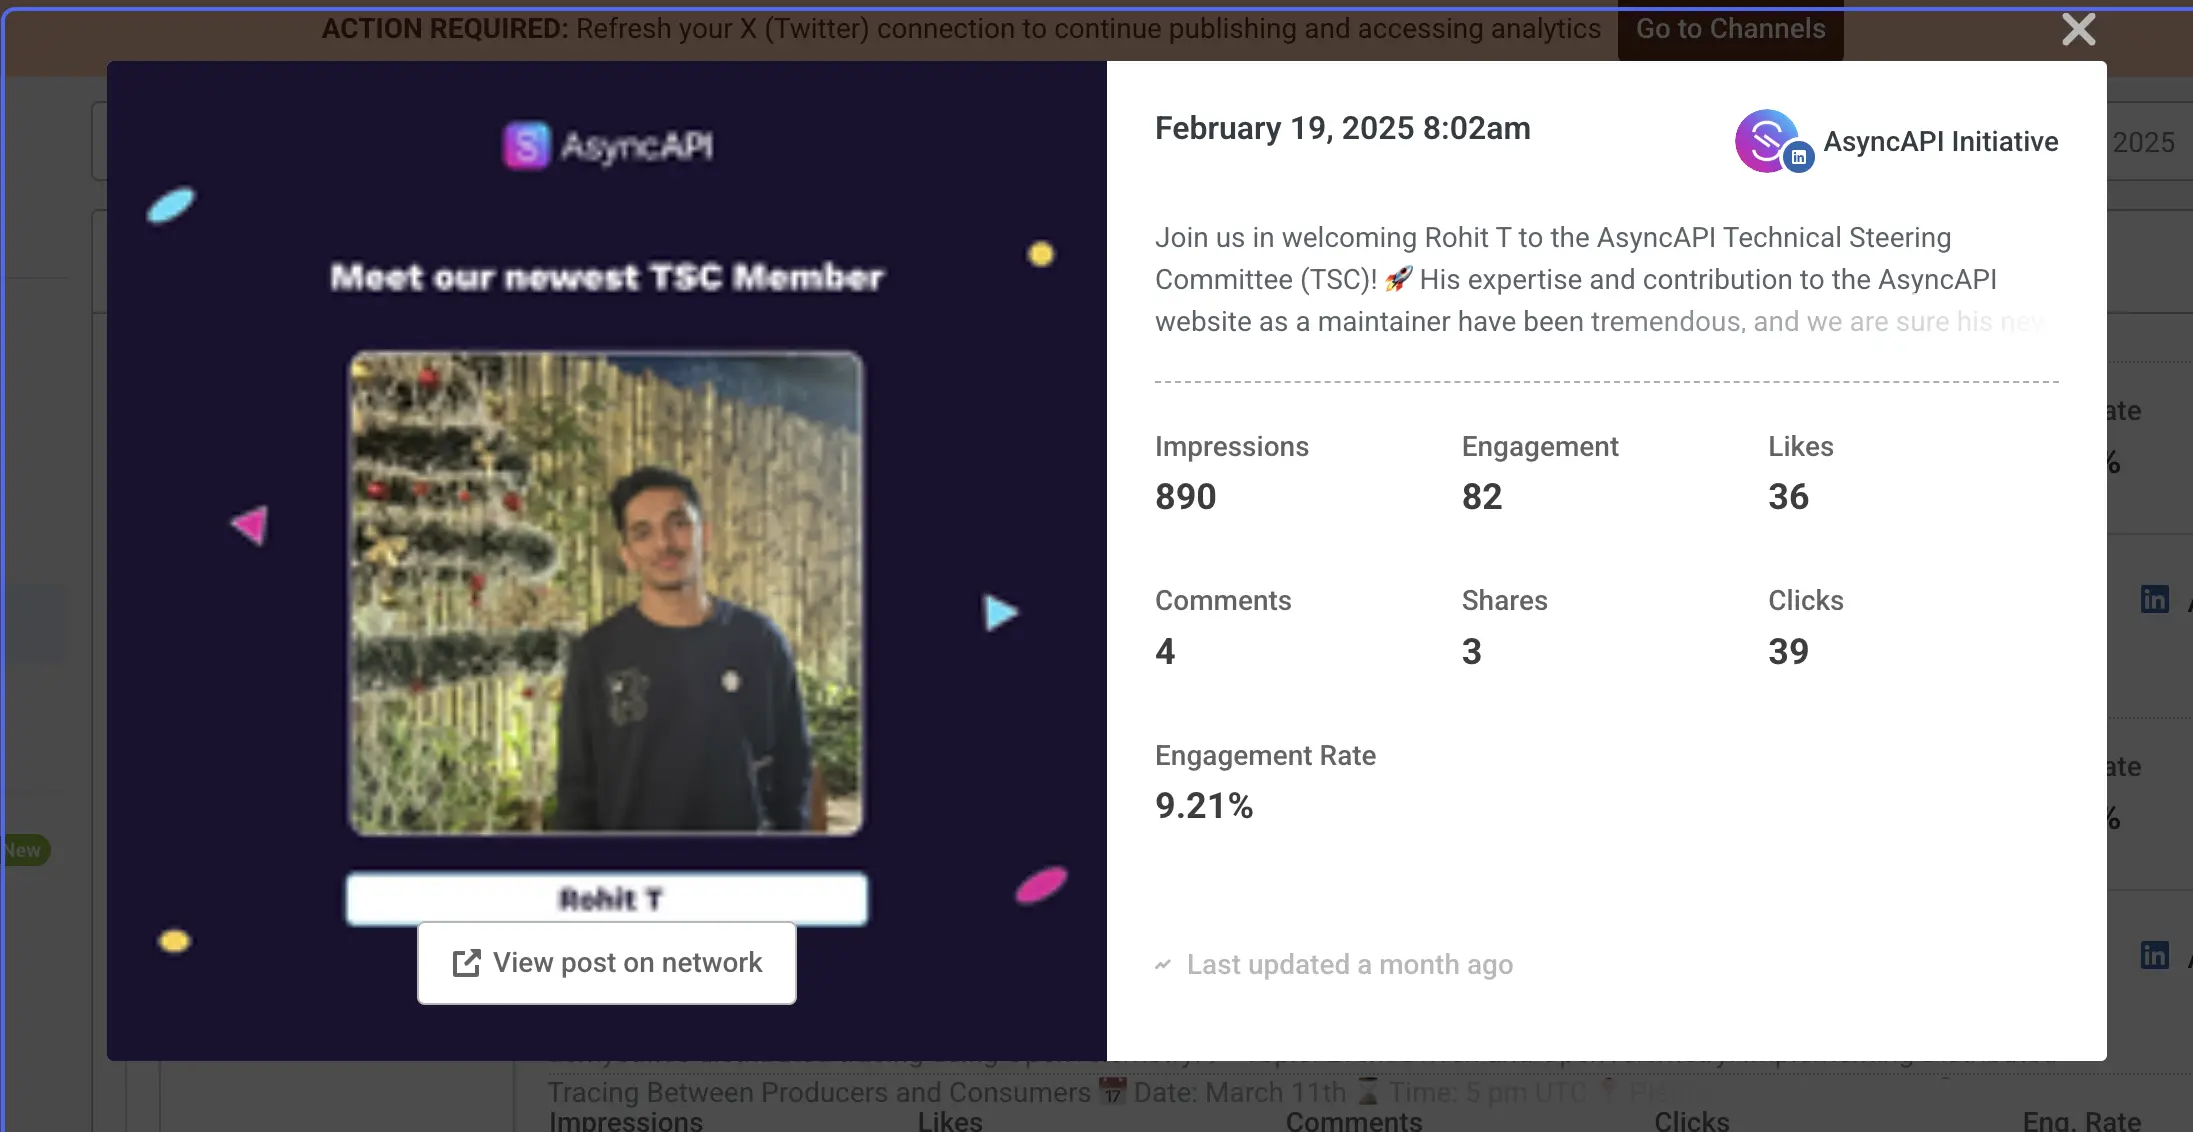
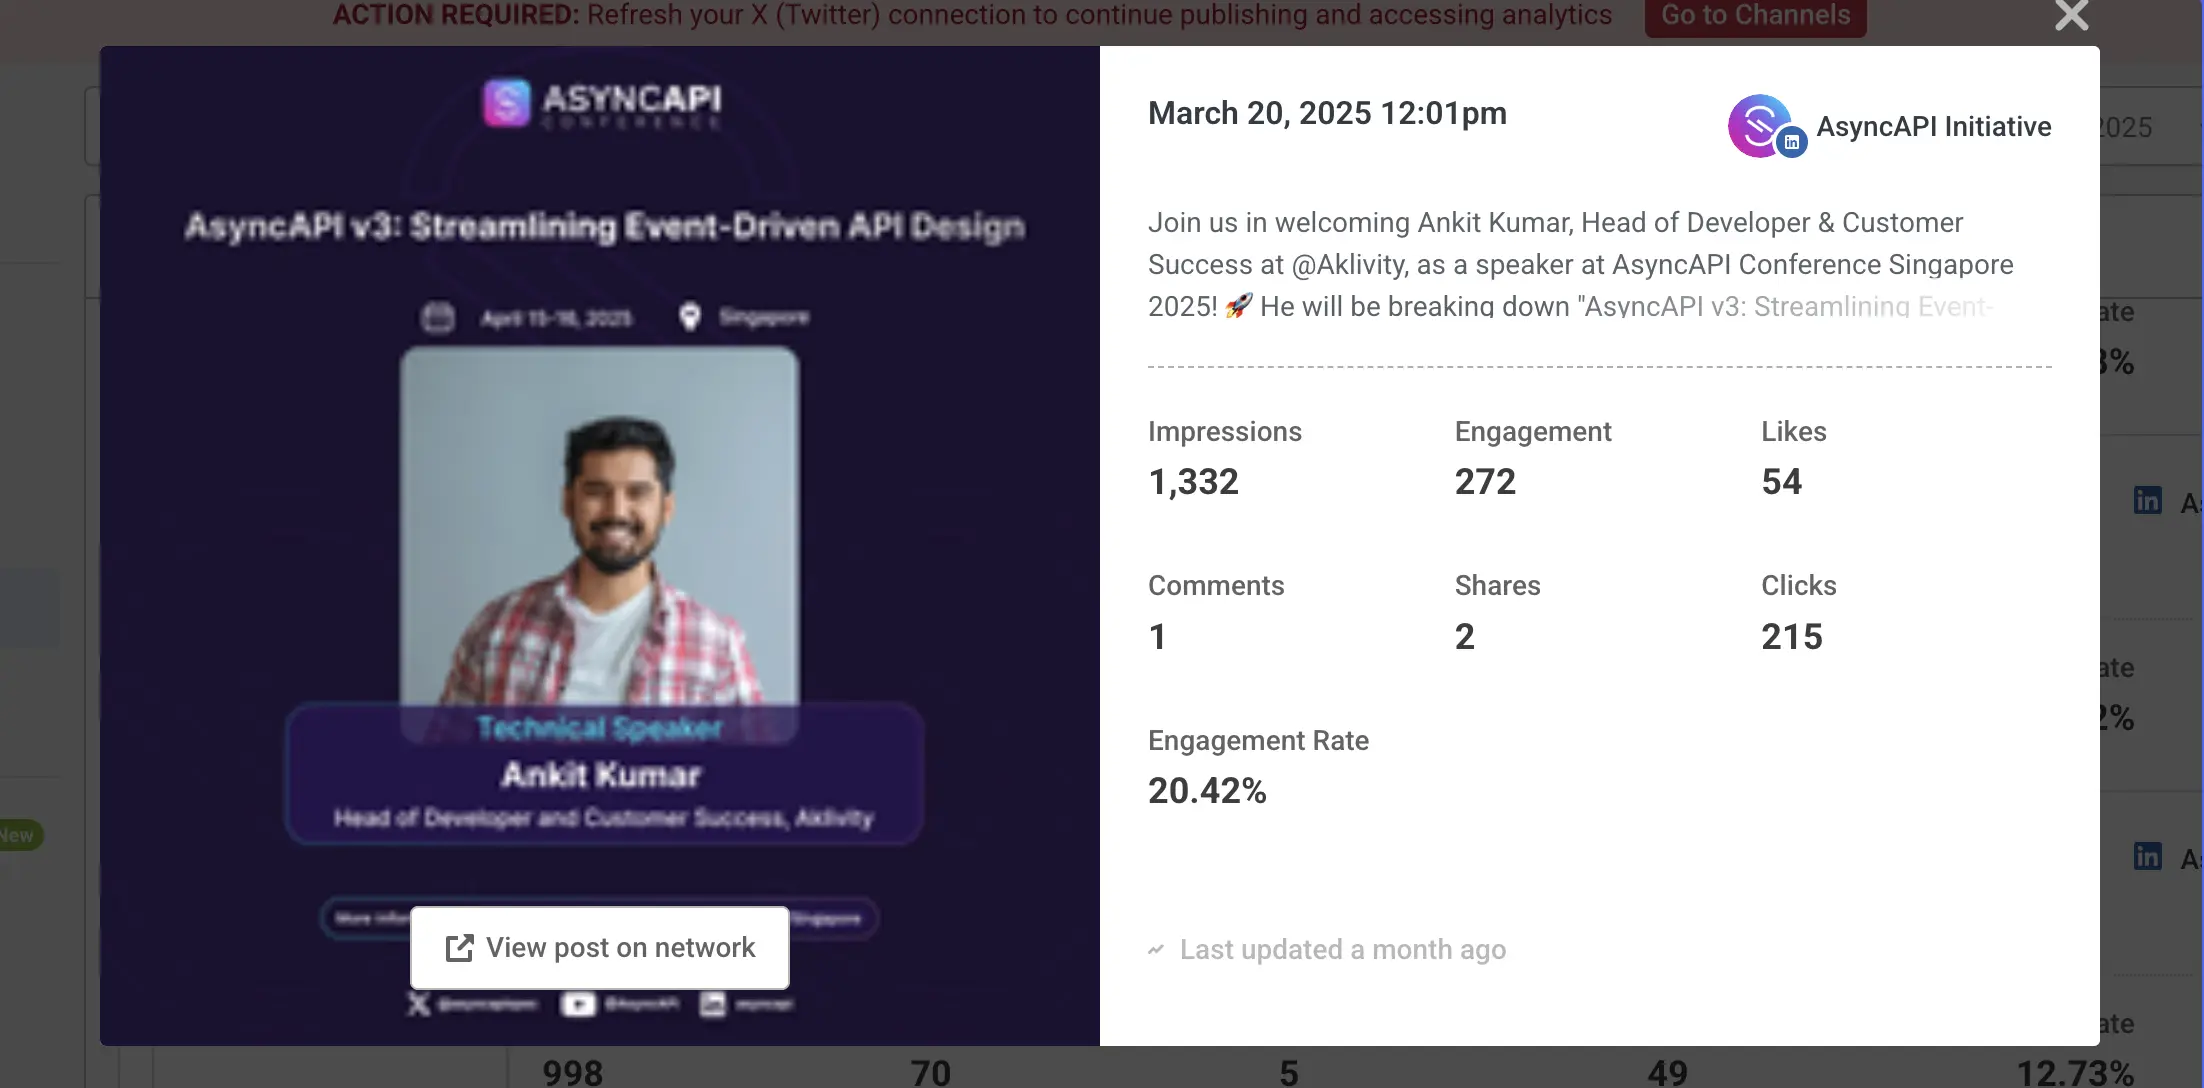
fix:marketing-Q1-report

diff --git a/markdown/blog/2025-Q1-marketing-report.md b/markdown/blog/2025-Q1-marketing-report.md
@@ -28,14 +28,14 @@ This report provides an overview of our marketing activities, including social m
 
 ### Social Media Performance
 
-| **LinkedIn Metric**         | **Value**         |**% Change** |
-|--------------------|-----------------------------|----------------|
-|  Followers       | 4,204           |    +6%         |
-| New Followers        | 215         |    +18%            |
-| Posts       | 32           | +8%         |
-|Impressions       |         16,385 |       +7% |
-|Clicks      |               931|               +1% |
-|Engagement Rate      |      6.66%     |    +13%    |
+| **LinkedIn Metric**         | **Value**         |**last Quarter Value**|**% Change** |
+|--------------------|-----------------------------|---------------|----------------|
+|  Followers       | 4,255           |  3,949 | +8%         |
+| New Followers        | 313         | 263  | +20%            |
+| Posts       | 48        | 93 | -48%         |
+|Impressions       |        23,715 | 29,366     | -18% |
+|Clicks      |     1,495| 1398       |       +8% |
+|Engagement Rate      |      7.52%     | 6.23% |  +21%    |
 
 ### Key Insights
 
@@ -44,23 +44,53 @@ This report provides an overview of our marketing activities, including social m
 - Click-through rates need improvement, signaling a need for stronger CTAs and content hooks.
 
 
-| **X (Formerly Twitter)Metric**         | **Value**         |**% Change** |
-|--------------------|-----------------------------|----------------|
-|  Tweets      | 62          |   +16%        |
-| Retweets        | 16        |    +7%          |
-| Posts       | 32           | +8%         |
-|Impressions       |         10,461|       +14%|
-|Engagements     |              202|              +6% |
-|Replies     |      2  |    +50%   |
-| Clicks              |    79         |    +9%            |
-|Likes          |       70   |         +10%       |
-|New Followers|         2      |
+| **X (Formerly Twitter)Metric**         | **Value**         |**% last Quarter** |**% Change** |
+|--------------------|-----------------------------|----------------|-----------------|
+|  Tweets      | 89         |      162   |-44%  |
+| Retweets        | 24       |       54     |  -53% |
+|Impressions       |         14,621|    27,823  |  -46% |
+|Engagements     |       278  |   543      |  -48% |
+|Replies     |      3  |  2     | +75% |
+| Clicks       |    101       |     199      |  -48% |
+|Likes          |       93   |        188      |  -49% |
+|New Followers|         36     | -27| +239%|
 
 ### Key Insights
 
-Tweet output increased by 16%, leading to a 14% boost in impressions.
-Replies saw a 50% increase, but overall reply numbers remain low.
-New followers count is stagnant, indicating a need for more engagement and visibility strategies.
+Tweet output dipped by 44%, leading to a -46% dip in impressions as well.
+Replies saw a 75% increase, but overall reply numbers remain low.
+New followers count rose by +239%, given the dip and lose of followers in the previous quarter. 
+
+Overall, the decline in some metrics can be attributed to the higher number of events in the previous quarter, which naturally led to more content and activity compared to this quieter quarter.
+
+### Website Performance 
+
+<Figure
+  src="/img/posts/marketing-images/goggle-analysis-page-view.webp"
+   alt="A table showing AsyncAPI  Google Analytics Homepage performance from January to March"
+  caption="AsyncAPI Google Analytics Homepage performance from January to March"
+  className="text-center"
+/>
+
+
+**User Engagement Insights (Google Analytics)**
+**Homepage Performance**
+
+The main landing page, "AsyncAPI Initiative for event-driven APIs," received the highest traffic (17.3% of total views) but saw relatively low average time on page (17s), suggesting users may be skimming or using it as a jumping-off point.
+
+**Strong Interest in Version 3.0.0**
+
+The "3.0.0" documentation page held 16.6% of the total views with a solid 41s average time, showing deep interest in the newest spec release.
+
+**High Engagement Pages**
+
+"AsyncAPI document structure" and "Payload schema" had fewer visits but strong time-on-page (44s and 36s respectively), indicating users are spending time understanding these technical sections.
+
+Similarly, "Understanding AsyncAPIs with a Practical Example" drew good engagement (28s avg.) and "Coming from OpenAPI" shows decent dwell time (30s), making them great learning pathway pages.
+
+**Notable Drops**
+
+"Generator" and "Tools" saw good traffic but experienced drops in average time spent (-13.4% and +1.9%, respectively). This might mean users don’t find these pages as intuitive or relevant and could benefit from clearer CTAs or improved content structure.
 
 ## Event & Community Engagement
 
@@ -89,29 +119,58 @@ The first spotlight is the Ashmit story. We look forward to having more stories 
 
 ### Top 3 Best-Performing Posts
 
-/img/posts/marketing-images/best-performance-post.webp
+These posts were selected based on their impressions and number of clicks.
 
-- [We’re welcoming three new members to the AsyncAPI Technical Steering Committee (TSC)](https://www.linkedin.com/feed/update/urn:li:ugcPost:7287771093354893312/)
+<Figure
+  src="/img/posts/marketing-images/best-performance-post.webp"
+  alt="Line graph showing AsyncAPI LinkedIn follower growth increasing from 2,000 to 3,910 followers throughout 2024"
+  caption="A LinkedIn announcement showing the performance details of AsyncAPI Technical Steering Committee (TSC) post"
+  className="text-center"
+/>
 
-- Engagement Rate: 17.50%
-- Impressions: 2,320
-- Key Takeaway: Why it performed well-community-driven and thought leadership
+1. [We’re welcoming three new members to the AsyncAPI Technical Steering Committee (TSC)](https://www.linkedin.com/feed/update/urn:li:ugcPost:7287771093354893312/)
 
-/img/posts/marketing-images/second-best-performance-post.webp
+- Impressions: 2,470 Impressions
+- Likes: 67
+- Comments: 12
+- Clicks: 361
+- Engagement Rate: 18.18%
+- Key Takeaway: Why it performed well is because it's a community-driven and thought leadership post.
 
-- [Join us in welcoming Rohit T to the AsyncAPI Technical Steering Committee (TSC)! 🚀](https://www.linkedin.com/feed/update/urn:li:share:7297873118683914240/)
+<Figure
+  src="/img/posts/marketing-images/second-best-performance-post.webp"
+  alt="Ankit Kumar, Head of Developer & Customer Success at @Aklivity, as a speaker at AsyncAPI Conference Singapore 2025"
+  caption="A LinkedIn announcement showing the performance details of Ankit Kumar speaker post"
+  className="text-center"
+/>
 
-- Engagement Rate: 9.21%
-- Impressions: 890
-- Key Takeaway: What worked well, thought leadership, community
+2. [Join us in welcoming Ankit Kumar, Head of Developer & Customer Success at @Aklivity, as a speaker at AsyncAPI Conference Singapore 2025! 🚀](https://www.linkedin.com/feed/update/urn:li:share:7308442490213126145/)
 
-/img/posts/marketing-images/third-best-performance-post.webp
+- Impressions: 1,332
+- Likes: 54
+- Comments: 1
+- Clicks; 215
+- Engagement Rate: 20.42%
+- Key Takeaway: What worked well, thought leadership, community-driven 
 
-- [Event-Driven and OpenTelemetry Webinar](https://www.linkedin.com/feed/update/urn:li:share:7298401421090021376/)
 
-- Engagement Rate: 8.55%
-- Impressions: 725
-- Key Takeaway: Why it resonated— community-driven, high-value content, visual appeal
+<Figure
+  src="/img/posts/marketing-images/third-best-performance-post.webp"
+  alt="Announcement that Laurent Broudoux is stepping into a new role as an AsyncAPI Ambassador!"
+  caption="A LinkedIn announcement showing the performance details of Laurent Broudoux post"
+  className="text-center"
+/>
+
+3. [We’re thrilled to announce that Laurent Broudoux is stepping into a new role as an AsyncAPI Ambassador! 🚀](https://www.linkedin.com/feed/update/urn:li:share:7310201401454829568/)
+
+
+- Impressions: 998
+- Likes: 70
+- Comments: 5
+- Clicks: 49
+- Engagement Rate: 12.73%
+- Key Takeaway: It's community-driven, high-value content, visual appeal
+
 
 ## Future Marketing Strategy & Action Plan
 
